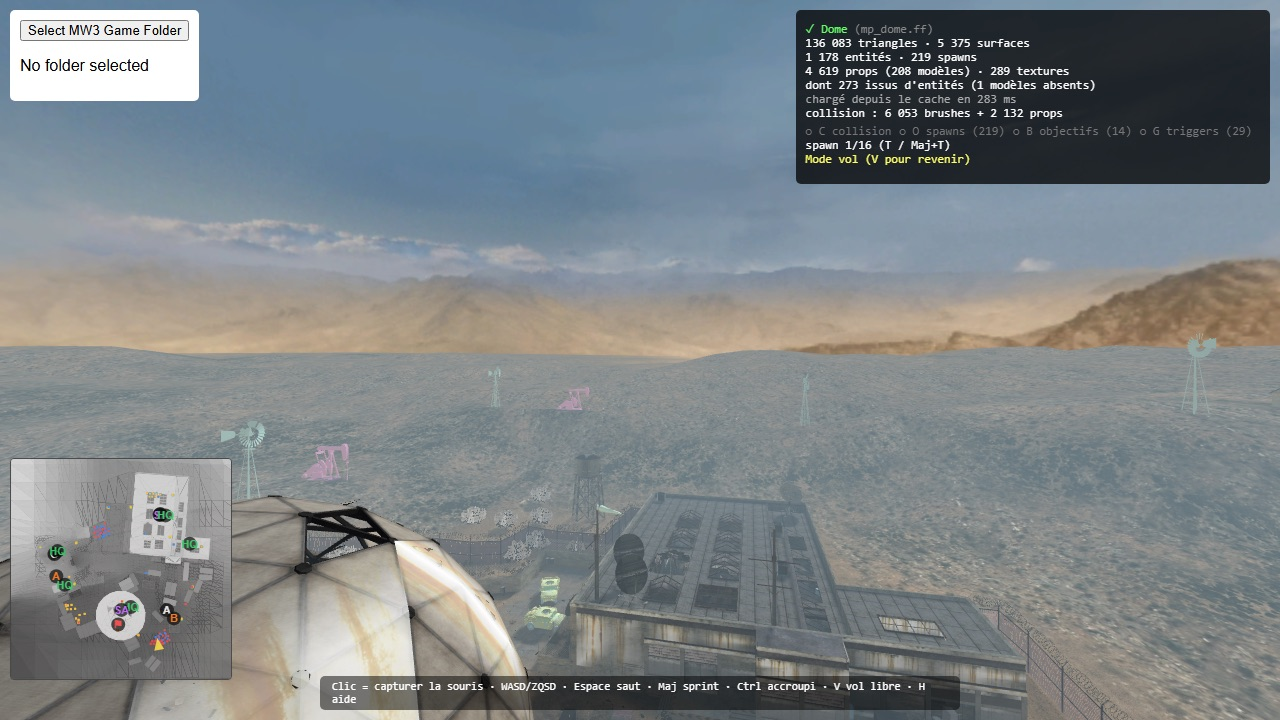
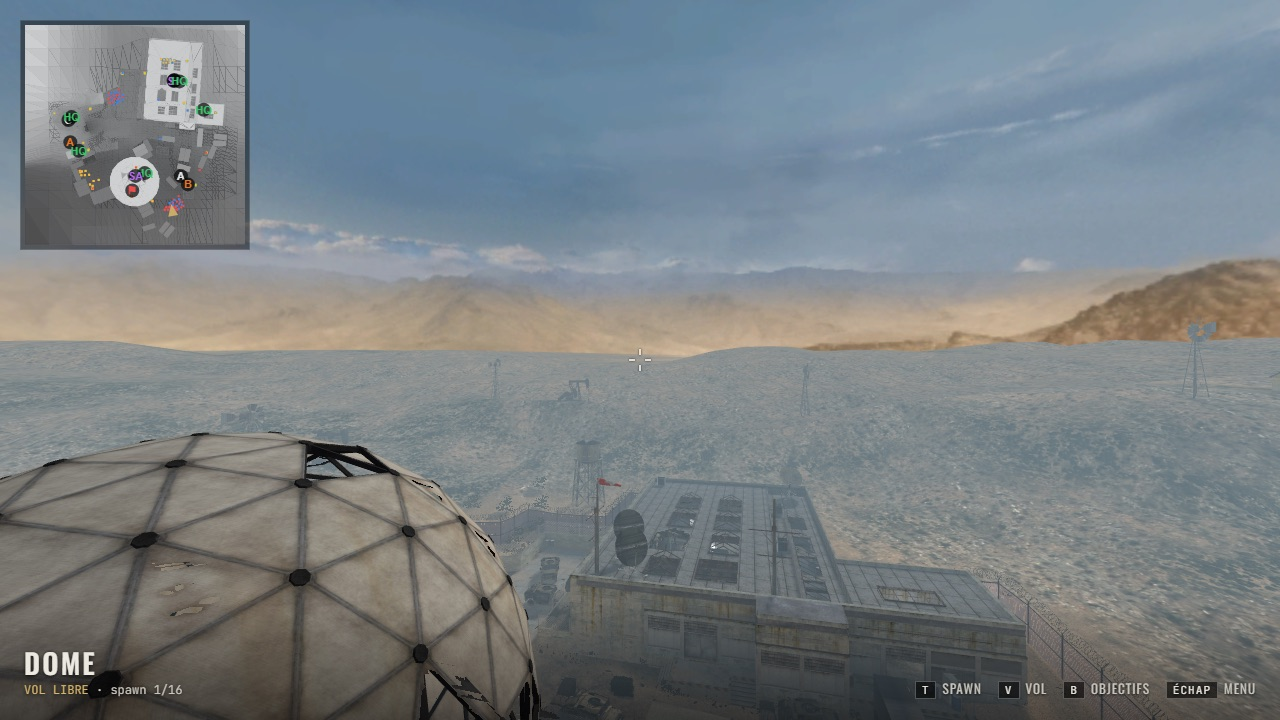
docs: refresh the screenshots with the current renderer and HUD

diff --git a/README.md b/README.md
@@ -15,7 +15,7 @@ Reconstruit un Call of Duty MW3 (2011) jouable dans le navigateur en parsant les
 | Visite des spawns (`T`) | Intérieur, lightmaps et ombres |
 |---|---|
 | ![Visite des spawns](docs/images/screens/dome-tour.gif) | ![Intérieur](docs/images/screens/dome-interior.jpg) |
-| **Objectifs (`B`) et mini-carte** | **Collision (`C`) : brushes + props** |
+| **Objectifs (`B`) et mini-carte** | **Collision (`C`)** |
 | ![Objectifs](docs/images/screens/dome-objectives.jpg) | ![Collision](docs/images/screens/dome-collision.jpg) |
 
 Ce qui est fait : menu (maps partagées par le serveur ou dossier MW3 local), écrans de chargement d'origine, HUD et menu pause ;
